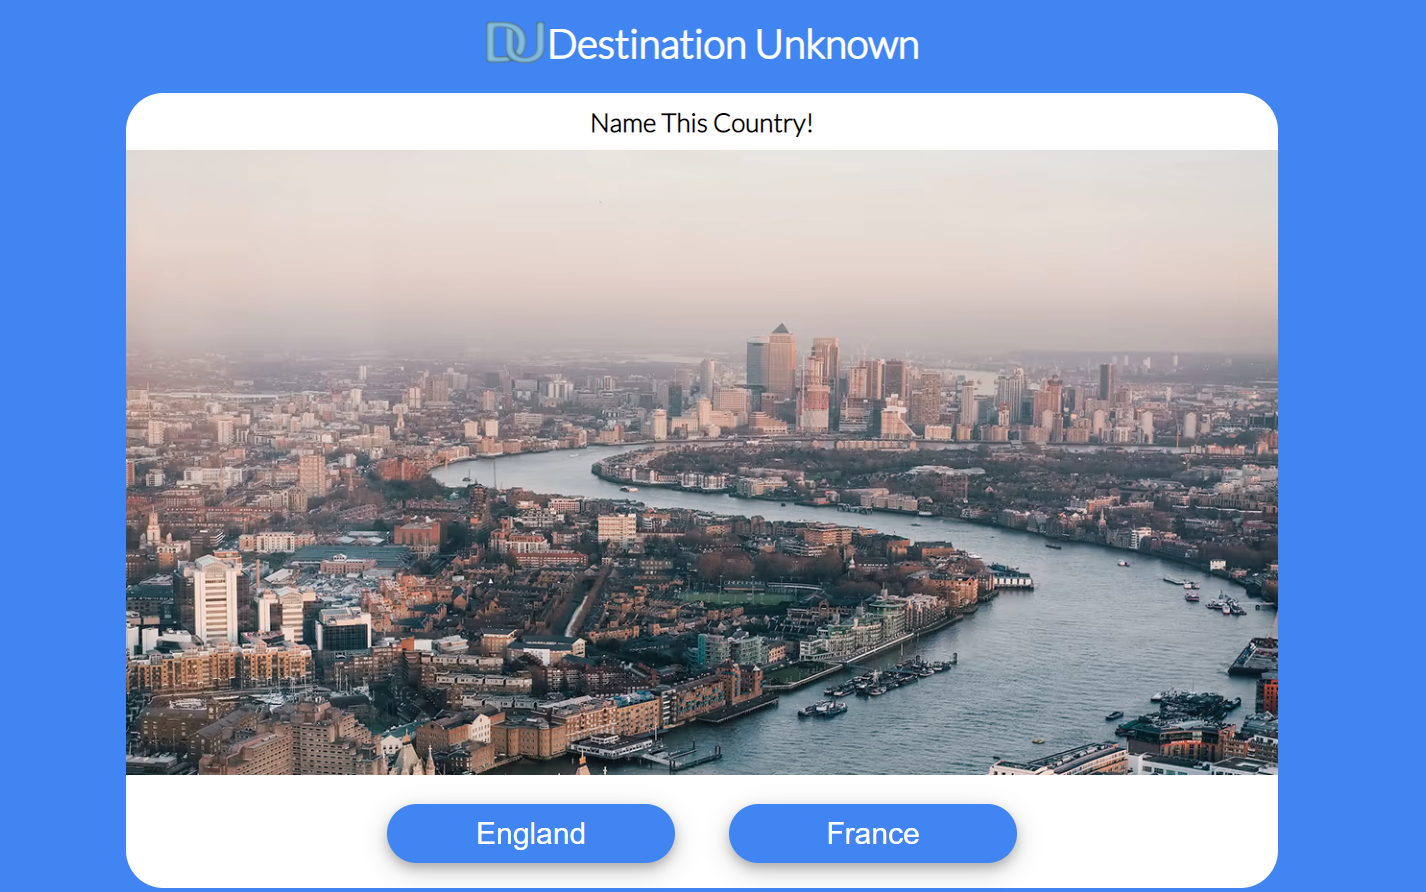
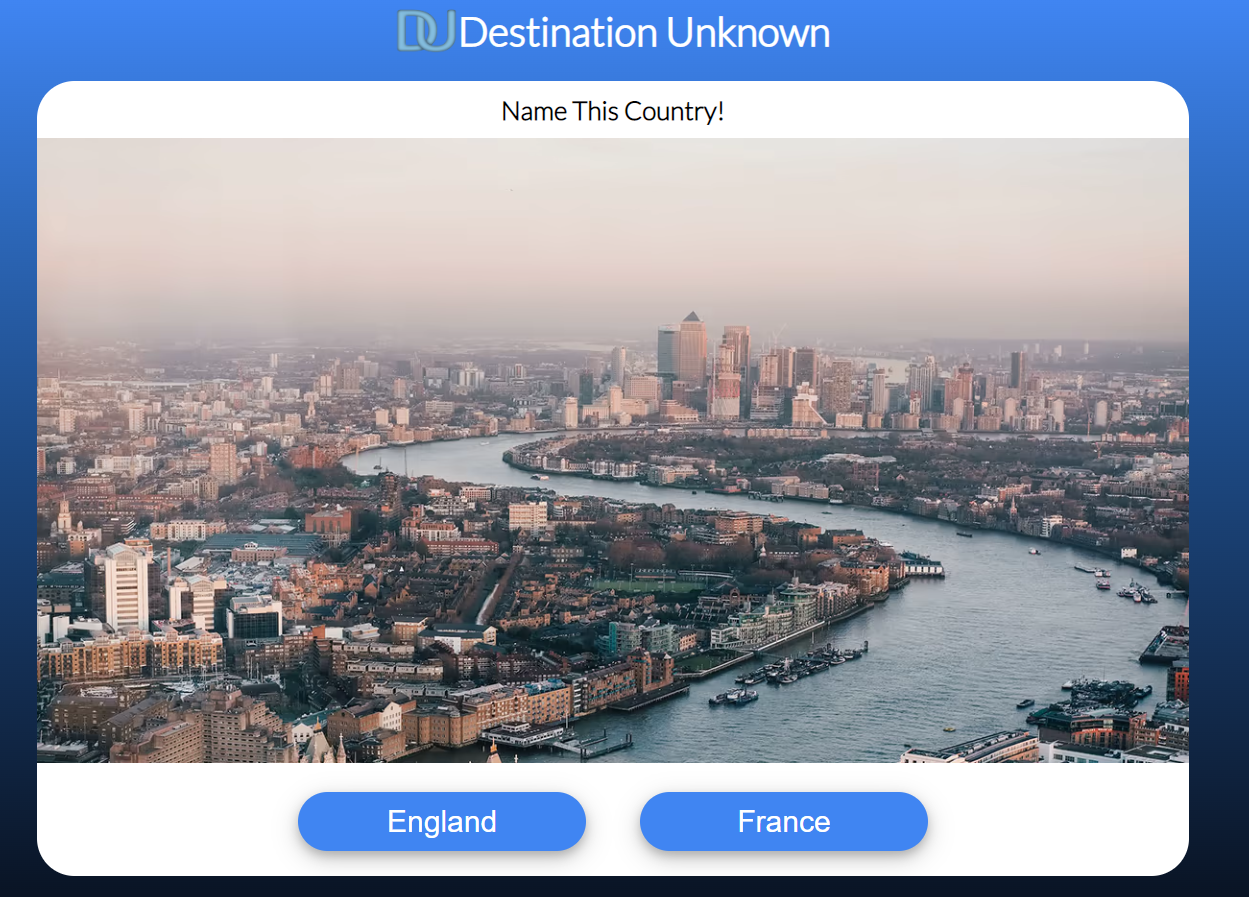
Modify Javascript to force user to input username. Add gradient background to quiz

diff --git a/assets/js/script.js b/assets/js/script.js
@@ -65,24 +65,30 @@ document.addEventListener("DOMContentLoaded", function(){
 
 //Save username to local storage
 function saveUsername() {
+    localStorage.clear();
     let input = document.getElementById("name");
     localStorage.setItem("name", input.value);
 }
 
-
 // Displays all neccesary divs and resets scores
 
 function startGame(){
-    i = 0;
-    let stuff = document.getElementsByClassName("game-area")[0];
-    let start = document.getElementsByClassName("start-screen")[0];
-    let end = document.getElementsByClassName("game-over")[0];
-    stuff.style.display = "block";
-    start.style.display = "none";
-    end.style.display = "none";
-    document.getElementById("score").innerText = 0;
-    document.getElementById("incorrect").innerText = 0;
-    loader();
+    let storedValue = localStorage.getItem("name");
+    if (storedValue === null){
+        alert("Please Enter a username!");
+        window.location.reload();
+    }else{
+        i = 0;
+        let stuff = document.getElementsByClassName("game-area")[0];
+        let start = document.getElementsByClassName("start-screen")[0];
+        let end = document.getElementsByClassName("game-over")[0];
+        stuff.style.display = "block";
+        start.style.display = "none";
+        end.style.display = "none";
+        document.getElementById("score").innerText = 0;
+        document.getElementById("incorrect").innerText = 0;
+        loader();
+    }
 }
 
 // This adds an image and text to buttons from the array
@@ -151,10 +157,6 @@ function gameOver(){
     end.style.display = "block";
     let message;
     let storedValue = localStorage.getItem("name");
-    if (storedValue === null){
-        message = `Thank you for playing <span id="playerName">Player 1</span>`;
-    }else{
-       	message = `Thank you for playing <span id="playerName">${storedValue}</span>`;
-    }
+    message = `Thank you for playing <span id="playerName">${storedValue}</span>`;
     document.getElementById("player").innerHTML = message;
 }

diff --git a/assets/css/style.css b/assets/css/style.css
@@ -11,15 +11,27 @@
 
 body {
     font-family: lato, sans-serif;
-    background-color: #4085f2;
+
     text-align: center;
 }
+
+/* Website Background */
+
+.bg {
+    width: 100%;
+    height: 100%;
+    position: absolute;
+    background-image: linear-gradient(to bottom, #4085f2, #2c67b9, #1d4983, #132d51, #091323);
+    z-index: -1;
+}
+
+/* Website Logo / Header */
 
 #logo {
     display: flex;
     justify-content: center;
     line-height: 50px;
-    margin: 15px 0;
+    margin-bottom: 15px;
     color: white;
 }
 
@@ -27,6 +39,8 @@ body {
     width: 50px;
     height: 50px;
 }
+
+/* Basic Button CSS */
 
 .btn {
     background-color: #4085f2;

diff --git a/index.html b/index.html
@@ -9,6 +9,9 @@
     <title>Destination Unknown</title>
 </head>
 <body>
+    <!--Website background-->
+    <div class="bg"></div>
+
     <!--Website Logo -->
     <div id = "logo">
         <img src="assets/images/logo.png" alt="Website Logo">
